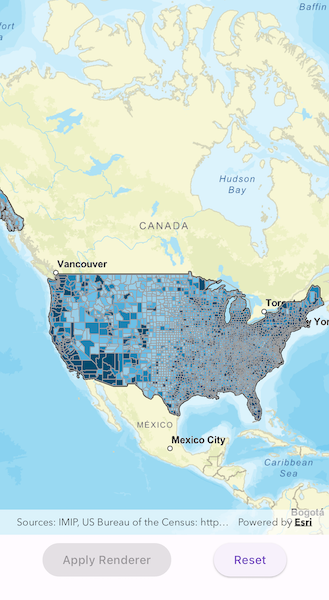
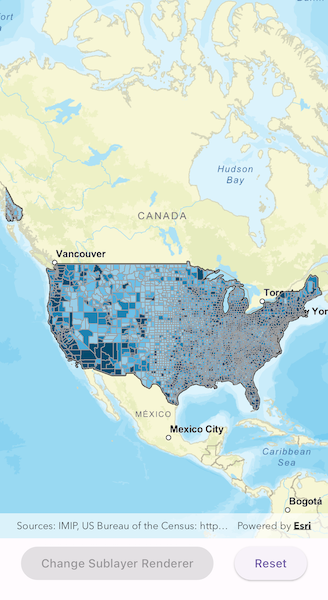
Changes to README

diff --git a/lib/samples/apply_class_breaks_renderer_to_sublayer/apply_class_breaks_renderer_to_sublayer_sample.dart b/lib/samples/apply_class_breaks_renderer_to_sublayer/apply_class_breaks_renderer_to_sublayer_sample.dart
@@ -59,7 +59,7 @@ class _ApplyClassBreaksRendererToSublayerSampleState
                   // apply renderer button
                   ElevatedButton(
                     onPressed: !_rendered && _ready ? renderLayer : null,
-                    child: const Text('Apply Renderer'),
+                    child: const Text('Change Sublayer Renderer'),
                   ),
                   // reset button
                   ElevatedButton(

diff --git a/lib/samples/apply_class_breaks_renderer_to_sublayer/README.md b/lib/samples/apply_class_breaks_renderer_to_sublayer/README.md
@@ -16,7 +16,7 @@ Wait for the map image layer to load. Click the 'Change Sublayer Renderer' butto
 
 1. Create an `ArcGISMapImageLayer` from its URL.
 2. After it is done loading, get its list of `ArcGISMapImageSublayer` objects with `imageLayer.arcGISMapImageSublayers`.
-3. Cast the sublayer you want to change to the appropriate type: `(ArcGISMapImageSublayer) sublayers.get(0)`.
+3. Access the sublayer you want: `imageLayer.arcGISMapImageSublayers.elementAt(2)`.
 4. Create a `ClassBreaksRenderer` with a collection of `ClassBreak`s for different population ranges.
 5. Set the renderer of the sublayer with `sublayer.renderer = renderer`.
 
@@ -25,7 +25,7 @@ Wait for the map image layer to load. Click the 'Change Sublayer Renderer' butto
 * ArcGISMapImageLayer
 * ArcGISMapImageSublayer
 * ClassBreaksRenderer
-* ClassBreaksRenderer.ClassBreak
+* ClassBreaksRenderer.ClassBreak  
 
 ## About the data
 
